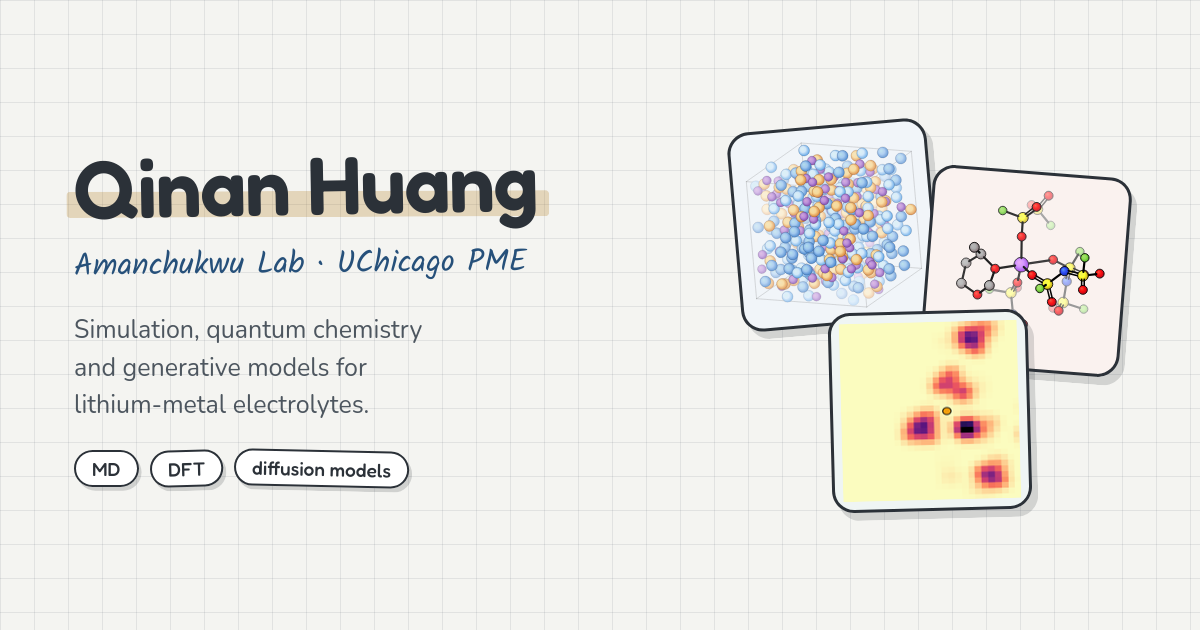
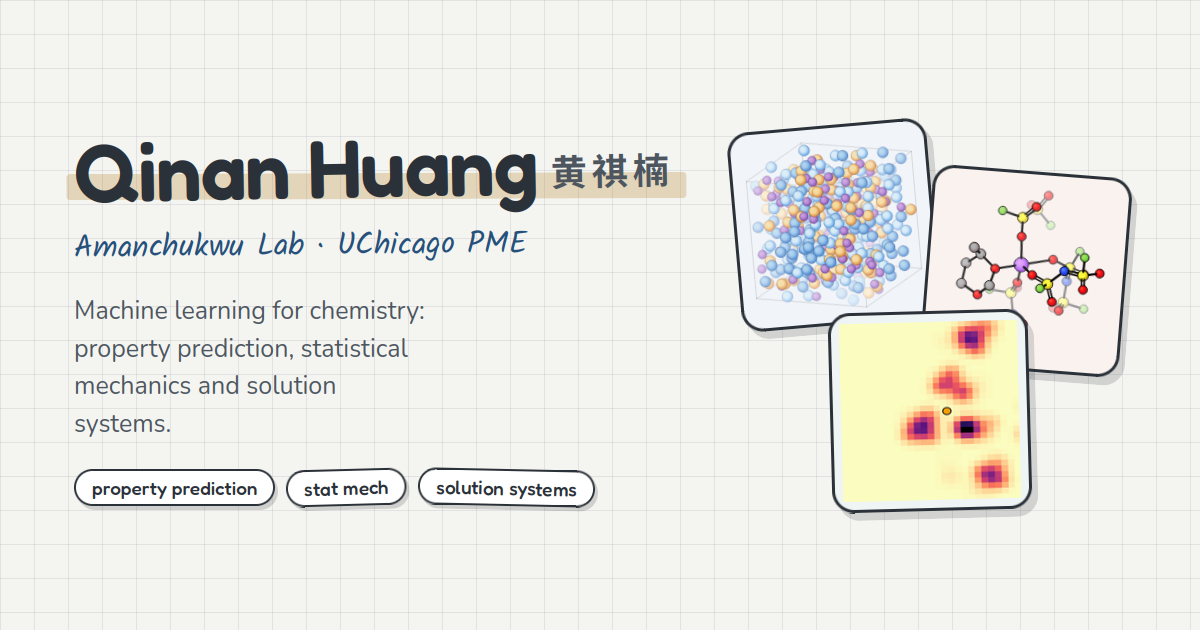
SEO: real h1 headings, refreshed OG share card, richer meta description

diff --git a/_layouts/default.html b/_layouts/default.html
@@ -21,6 +21,10 @@
 <meta property="og:description" content="{{ seo_desc }}">
 <meta property="og:url"         content="{{ page.url | absolute_url }}">
 <meta property="og:image"       content="{{ '/assets/img/og.png' | absolute_url }}">
+<meta property="og:image:type"   content="image/png">
+<meta property="og:image:width"  content="1200">
+<meta property="og:image:height" content="630">
+<meta property="og:image:alt"    content="{{ site.author.name }}{% if site.author.name_zh %}（{{ site.author.name_zh }}）{% endif %} — {{ site.tagline }}">
 <meta name="twitter:card"        content="summary_large_image">
 <meta name="twitter:title"       content="{% if page.title %}{{ page.title }}{% else %}{{ site.title }} — {{ site.tagline }}{% endif %}">
 <meta name="twitter:description" content="{{ seo_desc }}">

diff --git a/_includes/opening.html b/_includes/opening.html
@@ -8,7 +8,7 @@
     <div class="opening-row">
       <div class="bizcard reveal">
       <div class="bc-face">
-        <div class="bc-name">{{ a.name }}{% if a.name_zh %}<span class="bc-name-zh">{{ a.name_zh }}</span>{% endif %}</div>
+        <h1 class="bc-name">{{ a.name }}{% if a.name_zh %}<span class="bc-name-zh">{{ a.name_zh }}</span>{% endif %}</h1>
         <div class="bc-role">{{ a.role }} <span class="at">@</span> {{ a.group }}</div>
         <div class="bc-inst">{{ a.department }}</div>
         <div class="bc-inst">{{ a.institution }}</div>

diff --git a/news.html b/news.html
@@ -4,7 +4,7 @@ title: News — Qinan Huang
 ---
 
 <section>
-  <div class="sec reveal"><h2>news</h2><span class="aside">all of it</span></div>
+  <div class="sec reveal"><h1>news</h1><span class="aside">all of it</span></div>
   {%- if site.data.news and site.data.news.size > 0 %}
   <div class="news">
     {%- for n in site.data.news %}

diff --git a/_includes/side.html b/_includes/side.html
@@ -12,7 +12,7 @@
     </div>
   </div>
 
-  <h1 class="name">{{ a.name }}<span class="swipe"></span></h1>
+  <p class="name">{{ a.name }}<span class="swipe"></span></p>
   {%- if a.name_zh %}<p class="name-zh">{{ a.name_zh }}</p>{% endif %}
 
   <p class="role">
